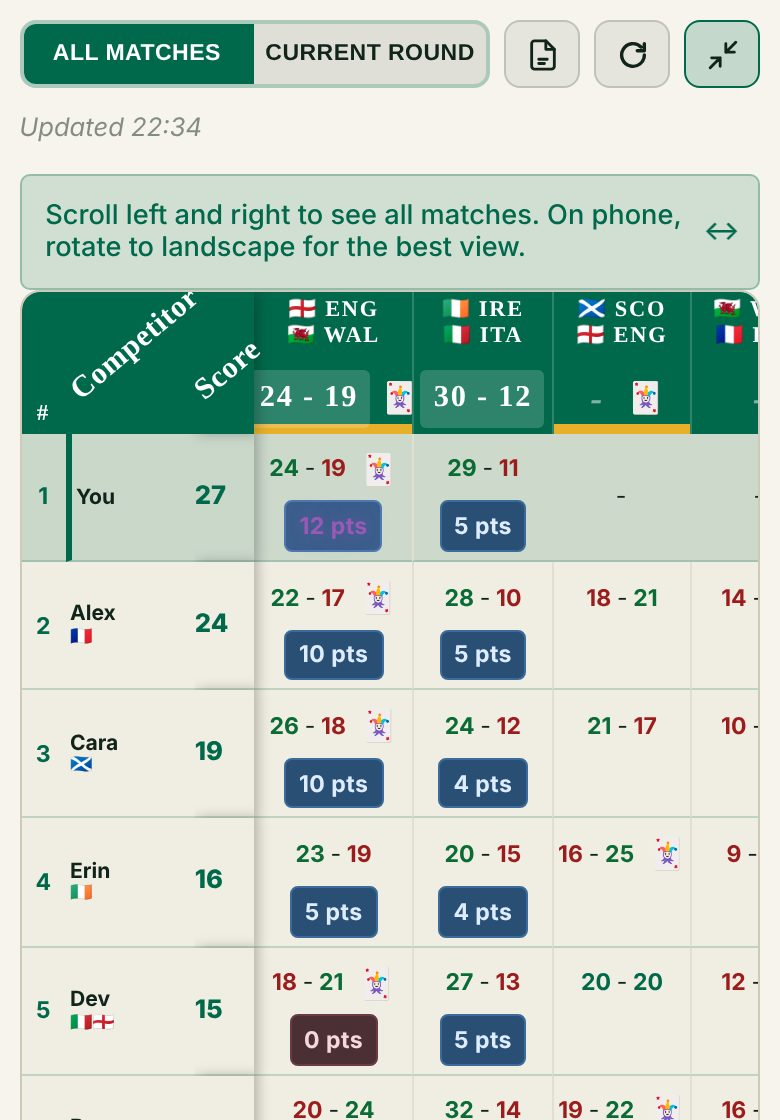
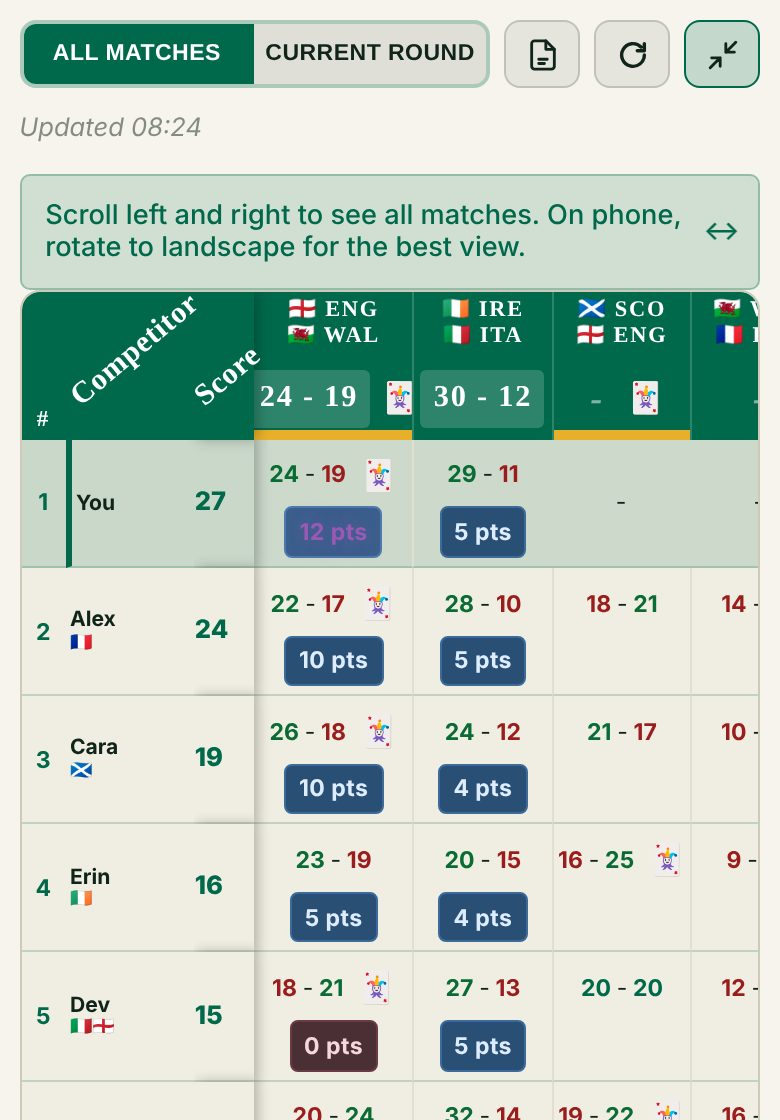
Bring back the Predicted Tries column (no tooltip) (#126)
* Open at the very top (no restored scroll position)

Claude-Session: https://claude.ai/code/session_01YF7ntrNncvTWaxhmpEFPNu

* Remove background stripes when signed in so the top of the Home Screen app is not faded

Claude-Session: https://claude.ai/code/session_01YF7ntrNncvTWaxhmpEFPNu

* Current round summary no longer scrolls sideways: hidden tooltips were widening the table

Claude-Session: https://claude.ai/code/session_01YF7ntrNncvTWaxhmpEFPNu

* Hide the Edit button on My Predictions when the year is locked

Claude-Session: https://claude.ai/code/session_01YF7ntrNncvTWaxhmpEFPNu

* Pin the summary header while the table is on screen; show the points breakdown under the pill on My Predictions

Claude-Session: https://claude.ai/code/session_01YF7ntrNncvTWaxhmpEFPNu

* Setup checklist: own screen opened from a button; add lock-predictions and finished-match-scores steps; clearer actual score/tries labels on Edit Fixture

Claude-Session: https://claude.ai/code/session_01YF7ntrNncvTWaxhmpEFPNu

* My Predictions: expandable rules section (same wording as the tour)

Claude-Session: https://claude.ai/code/session_01YF7ntrNncvTWaxhmpEFPNu

* Tour: show the generated PDF page under the PDF icon (tour-shots builds it with the app's own export)

Claude-Session: https://claude.ai/code/session_01YF7ntrNncvTWaxhmpEFPNu

* Infer rounds from fixture dates (same Thursday to Sunday weekend = one round); remove the manual round input
[…]

diff --git a/index.html b/index.html
@@ -20,7 +20,7 @@
     <script src="https://cdn.jsdelivr.net/npm/@supabase/supabase-js@2"></script>
     <script src="https://cdn.jsdelivr.net/npm/jspdf@2.5.2/dist/jspdf.umd.min.js"></script>
     <script src="https://cdn.jsdelivr.net/npm/jspdf-autotable@3.8.4/dist/jspdf.plugin.autotable.min.js"></script>
-    <link rel="stylesheet" href="styles.css?v=30261025-196">
+    <link rel="stylesheet" href="styles.css?v=30261025-198">
 </head>
 <body>
     <!-- Loading Screen -->
@@ -819,28 +819,28 @@
         <button type="button" class="install-tip-close" aria-label="Dismiss" onclick="dismissInstallTip()">&#10005;</button>
     </div>
 
-    <script src="js/constants.js?v=30261025-196"></script>
-    <script src="js/storage.js?v=30261025-196"></script>
-    <script src="js/state.js?v=30261025-196"></script>
-    <script src="js/years-admin.js?v=30261025-196"></script>
-    <script src="js/init.js?v=30261025-196"></script>
-    <script src="js/admin-fixtures.js?v=30261025-196"></script>
-    <script src="js/admin-competitors.js?v=30261025-196"></script>
-    <script src="js/profile.js?v=30261025-196"></script>
-    <script src="js/auth.js?v=30261025-196"></script>
-    <script src="js/predictions.js?v=30261025-196"></script>
-    <script src="js/scoring.js?v=30261025-196"></script>
-    <script src="js/trevs-tips.js?v=30261025-196"></script>
-    <script src="js/leaderboard.js?v=30261025-196"></script>
-    <script src="js/worm-chart.js?v=30261025-196"></script>
-    <script src="js/summary.js?v=30261025-196"></script>
-    <script src="js/fixture-chat.js?v=30261025-196"></script>
-    <script src="js/tour-images.js?v=30261025-196"></script>
-    <script src="js/tour.js?v=30261025-196"></script>
-    <script src="js/app-bar.js?v=30261025-196"></script>
-    <script src="js/export-pdf.js?v=30261025-196"></script>
-    <script src="js/rules-admin.js?v=30261025-196"></script>
-    <script src="js/recovery-usage.js?v=30261025-196"></script>
-    <script src="js/app-shell.js?v=30261025-196"></script>
+    <script src="js/constants.js?v=30261025-198"></script>
+    <script src="js/storage.js?v=30261025-198"></script>
+    <script src="js/state.js?v=30261025-198"></script>
+    <script src="js/years-admin.js?v=30261025-198"></script>
+    <script src="js/init.js?v=30261025-198"></script>
+    <script src="js/admin-fixtures.js?v=30261025-198"></script>
+    <script src="js/admin-competitors.js?v=30261025-198"></script>
+    <script src="js/profile.js?v=30261025-198"></script>
+    <script src="js/auth.js?v=30261025-198"></script>
+    <script src="js/predictions.js?v=30261025-198"></script>
+    <script src="js/scoring.js?v=30261025-198"></script>
+    <script src="js/trevs-tips.js?v=30261025-198"></script>
+    <script src="js/leaderboard.js?v=30261025-198"></script>
+    <script src="js/worm-chart.js?v=30261025-198"></script>
+    <script src="js/summary.js?v=30261025-198"></script>
+    <script src="js/fixture-chat.js?v=30261025-198"></script>
+    <script src="js/tour-images.js?v=30261025-198"></script>
+    <script src="js/tour.js?v=30261025-198"></script>
+    <script src="js/app-bar.js?v=30261025-198"></script>
+    <script src="js/export-pdf.js?v=30261025-198"></script>
+    <script src="js/rules-admin.js?v=30261025-198"></script>
+    <script src="js/recovery-usage.js?v=30261025-198"></script>
+    <script src="js/app-shell.js?v=30261025-198"></script>
 </body>
 </html>

diff --git a/dev/tests/browser/header-click.js b/dev/tests/browser/header-click.js
@@ -122,7 +122,7 @@ const mock = `
   await page.locator('.summary-container thead th.match-header-cell').first().tap(); await page.waitForTimeout(400);
   console.log('tapping the match header opens its reactions:', JSON.stringify(await page.evaluate(() => ({ open: document.body.classList.contains('fixture-chat-open'), title: document.getElementById('fixtureChatTitle').textContent }))));
   await page.keyboard.press('Escape'); await page.waitForTimeout(200);
-  console.log('no Predicted Tries column:', await page.evaluate(() => !document.querySelector('.summary-container .tries-col') && !/Predicted Tries/.test(document.querySelector('.summary-container').innerText)));
+  console.log('Predicted Tries column is there, with no tooltip:', await page.evaluate(() => !!document.querySelector('.summary-container th.tries-col') && document.querySelectorAll('.summary-container td.tries-col').length > 0 && document.querySelectorAll('.summary-container td.tries-col .tooltip').length === 0));
   await page.evaluate(() => document.querySelector('.worm-point').scrollIntoView({block:'center'})); await page.waitForTimeout(200);
   await page.evaluate(() => document.querySelector('.worm-point').dispatchEvent(new MouseEvent('click', { bubbles: true }))); await page.waitForTimeout(300);
   console.log('a chart point opens the pop-up (no tooltip):', JSON.stringify(await page.evaluate(() => ({ open: document.body.classList.contains('fixture-chat-open'), title: document.getElementById('fixtureChatTitle').textContent, sub: document.getElementById('fixtureChatSub').textContent, lines: document.getElementById('fixtureChatBody').innerText.replace(/\\s+/g, ' ').slice(0, 100), tooltipElement: !!document.getElementById('wormPointTooltip') }))));

diff --git a/js/summary.js b/js/summary.js
@@ -58,7 +58,7 @@
             html += '<div class="summary-container">';
             html += '<table class="summary-table">';
             
-            // Header row: Rank | Competitor | Score | Match 1 | Match 2 | ...
+            // Header row: Rank | Competitor | Score | Match 1 | Match 2 | ... | Predicted Tries
             html += '<thead><tr>';
             html += '<th class="rank-col">#</th>';
             html += '<th class="competitor-col"><span class="th-angled">Competitor</span></th>';
@@ -81,6 +81,10 @@
                     </div>
                 </th>`;
             });
+            // Only show Tries column when not filtering by round
+            if (currentFilter !== 'round') {
+                html += '<th class="tries-col">Predicted Tries</th>';
+            }
             html += '</tr></thead>';
             
             html += '<tbody>';
@@ -200,6 +204,12 @@
                         ${extrasLine}
                     </td>`;
                 });
+                
+                // Predicted tries column (only when not filtering by round): just the number, no tooltip
+                if (currentFilter !== 'round') {
+                    const userTries = users[user.username].totalTries;
+                    html += `<td class="tries-col">${userTries !== null && userTries !== undefined ? userTries : '-'}</td>`;
+                }
                 
                 html += '</tr>';
             });

diff --git a/styles.css b/styles.css
@@ -4389,7 +4389,7 @@ body { overflow-x: hidden; overflow-x: clip; overscroll-behavior-x: none; max-wi
 /* Summary header row stays pinned while the table is on screen (see updateSummaryHeaderPin) */
 .summary-table thead th { z-index: 30 !important; }
 .summary-table thead th:not(.rank-col):not(.competitor-col):not(.pts-col) { background: var(--gold) !important; }
-.summary-table thead th.match-header-cell { position: relative; }
+.summary-table thead th.match-header-cell, .summary-table thead th.tries-col { position: relative; }
 
 .fixture-actuals-hint { font-size: 0.85rem; line-height: 1.4; margin: 0 0 0.9rem; padding: 0.55rem 0.8rem; border-left: 3px solid var(--gold); background: rgb(var(--ink) / 0.06); border-radius: 0 6px 6px 0; }
 #editFixtureModal .input-group:has(#edit-fixture-score1) label, #editFixtureModal .input-group:has(#edit-fixture-score2) label,

diff --git a/js/tour-images.js b/js/tour-images.js
@@ -24,7 +24,7 @@ const TOUR_IMAGES = {
  },
  "score": {
   "src": "tour-images/score.jpg",
-  "v": "e13efdb1",
+  "v": "f3d8a718",
   "w": 780,
   "h": 1520,
   "marks": [
@@ -53,7 +53,7 @@ const TOUR_IMAGES = {
  },
  "compact": {
   "src": "tour-images/compact.jpg",
-  "v": "5457d117",
+  "v": "6bad4721",
   "w": 780,
   "h": 1120,
   "marks": [
@@ -75,7 +75,7 @@ const TOUR_IMAGES = {
  },
  "pdf": {
   "src": "tour-images/pdf.jpg",
-  "v": "229db4b2",
+  "v": "43287d58",
   "w": 780,
   "h": 458,
   "marks": [
@@ -96,7 +96,7 @@ const TOUR_IMAGES = {
   "marks": [
    {
     "n": 1,
-    "x": 40.2,
+    "x": 40.3,
     "y": 24.8,
     "w": 12.4,
     "h": 5.7

diff --git a/REPO_CONTEXT.md b/REPO_CONTEXT.md
@@ -490,4 +490,4 @@ This is the main browser-to-Supabase boundary.
 - Compact mode defaults on for phones (`isPhoneScreen()`: width 480px or less, or a phone held sideways) when nothing is saved; a saved choice (`summaryCompact` 1/0) always wins. A phone held sideways also uses the full width with a 0.5rem border. The tour has a Compact mode step (picture `compact`). Test: `compact-default`.
 
 - Usage log: `supabase/usage_events_trim_migration.sql` (idempotent) adds a trigger that keeps only the newest 100 `usage_events` rows after every insert (a security definer function, so it works for non-admins; clients cannot call it) and trims existing rows when run. Test: `dev/tests/sql/sql-usage-trim.js`; `verify_security.sql` check 20. The Usage Report shows those 100; "Remove All Usage Events" still clears the log.
-- Taps: a match header (anywhere, not just the chip) opens that match's reactions; a prediction cell opens the prediction; a point on the Points Progression chart opens that game in the same pop-up (`openWormPointDetail`; there are no tooltips on the chart or the summary table, and the Predicted Tries column is gone). On phones the Competitor and Score headers are larger and set at an angle (`.th-angled`). Test: `header-click`.
+- Taps: a match header (anywhere, not just the chip) opens that match's reactions; a prediction cell opens the prediction; a point on the Points Progression chart opens that game in the same pop-up (`openWormPointDetail`; there are no tooltips on the chart or the summary table, and the Predicted Tries column shows just the number, in All matches view only). On phones the Competitor and Score headers are larger and set at an angle (`.th-angled`). Test: `header-click`.
